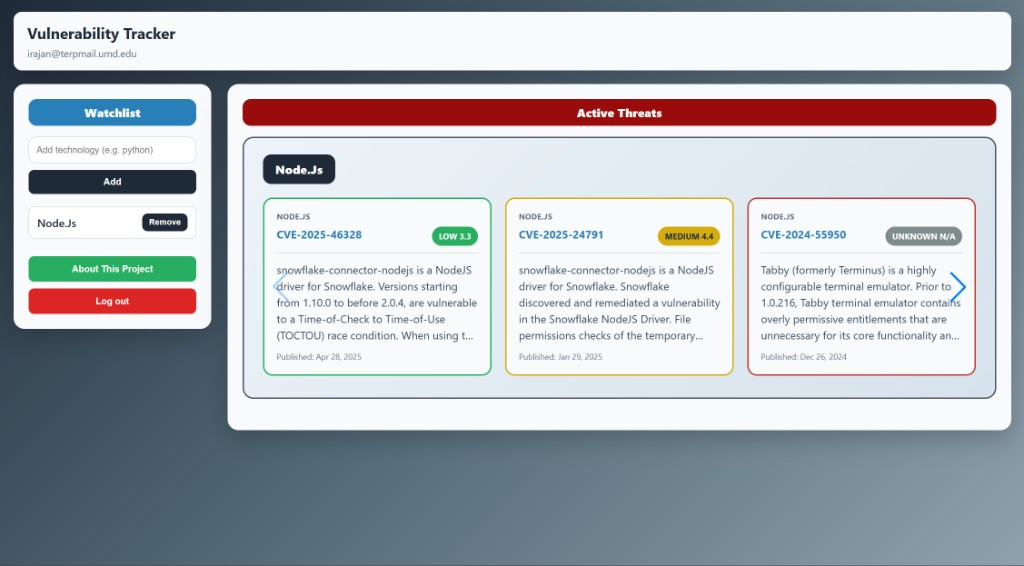
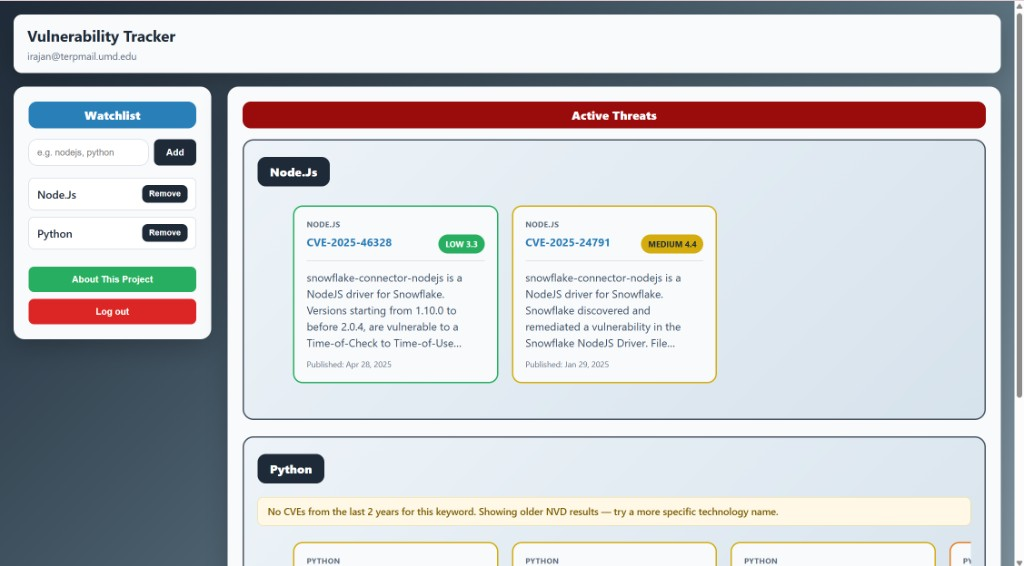
updated the README

diff --git a/README.md b/README.md
@@ -1,16 +1,27 @@
 # Vulnerability Tracker
 
-A full-stack web app that helps developers monitor **CVE vulnerabilities** for technologies in their stack. Instead of searching the full [NIST NVD](https://nvd.nist.gov/) manually, you maintain a personal watchlist and browse severity-ranked threats on a dashboard.
+A full-stack web app that helps developers monitor **CVE vulnerabilities** for technologies in their stack. Instead of searching the [NIST NVD](https://nvd.nist.gov/) manually, you build a personal watchlist and browse severity-ranked threats on one dashboard.
 
 **Live demo:** [https://inst-377-project-final-philip-montv.vercel.app/](https://inst-377-project-final-philip-montv.vercel.app/)
 
+## Screenshots
+
+| Login | Dashboard |
+|-------|-----------|
+| ![Login page](docs/screenshots/login.png) | ![Dashboard with CVE cards and CVSS badges](docs/screenshots/dashboard.png) |
+
+| About |
+|-------|
+| ![About page with project overview and tech stack](docs/screenshots/about.png) |
+
 ## Features
 
-- Email/password authentication with **Supabase Auth** (sessions persist across page refresh)
-- Personal technology watchlist (up to 5 items, validated against NVD)
-- CVE carousel per technology with **CVSS severity** badges (critical → low)
-- Responsive layout for desktop, tablet, and mobile
-- REST API backed by **Express** and **Supabase Postgres**
+- **Supabase Auth** — email/password login with sessions that persist across refresh
+- **Technology watchlist** — track up to 5 stack items, validated against NVD
+- **CVE dashboard** — per-technology carousel with **CVSS severity** badges (critical → low)
+- **Smarter NVD matching** — CPE-aware queries and relevance filtering to reduce false positives
+- **Responsive UI** — works on desktop, tablet, and mobile
+- **REST API** — Express backend with Supabase Postgres
 
 ## Tech stack
 
@@ -35,28 +46,22 @@ flowchart LR
 ## Quick start
 
 1. Clone the repo and run `npm install`.
-2. Copy `.env.example` to `.env` and fill in your keys.
+2. Copy [.env.example](.env.example) to `.env` and add your keys.
 3. Start two terminals:
    - `npm run dev` — Vite frontend (proxies `/api` to port 3000)
    - `npm run server` — Express backend
-4. Open the Vite URL (usually `http://localhost:5173`).
+4. Open the Vite dev URL (usually `http://localhost:5173`).
 
-Full API docs, manual test checklist, and known limitations: [docs/README.md](docs/README.md).
+For API endpoints, manual testing steps, and known limitations, see [docs/README.md](docs/README.md).
 
 ## Environment variables
 
-See [.env.example](.env.example). You need Supabase URL/keys and an [NVD API key](https://nvd.nist.gov/developers/request-an-api-key).
-
-## Screenshots
-
-### Login
-![Vulnerability Tracker login page](docs/screenshots/login.png)
-
-### Dashboard
-![Dashboard showing Node.js CVEs with CVSS severity badges](docs/screenshots/dashboard.png)
-
-### About
-![About page describing the project and tech stack](docs/screenshots/about.png)
+| Variable | Purpose |
+|----------|---------|
+| `VITE_SUPABASE_URL` | Supabase project URL (frontend) |
+| `VITE_SUPABASE_KEY` | Supabase anon key (frontend) |
+| `SUPABASE_SERVICE_ROLE_KEY` | Supabase service role (backend) |
+| `NVD_API_KEY` | [NIST NVD API key](https://nvd.nist.gov/developers/request-an-api-key) |
 
 ## Team
 
